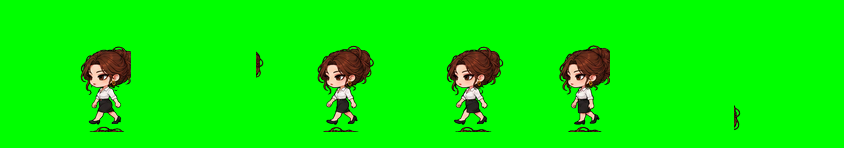
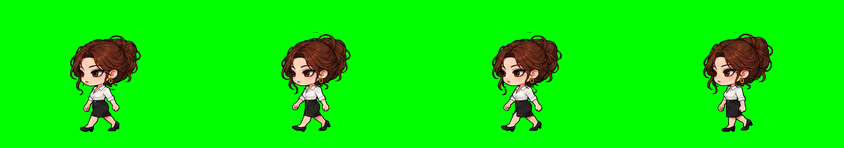
Céleste intake : bandes corrigées (découpage repris)

diff --git a/PROJECT.md b/PROJECT.md
@@ -226,7 +226,7 @@ La zone extérieure vient en dernier et en deux temps (structure, puis contenu) 
 | 17j | implémentée, à relire et à valider sur Android | **Chapitre 5, « Le poids d'une dette »** (`chapitre5.js`, `points.js`, section 35) : l'inventaire du matin (Céleste et la boîte à café, Ishara silencieuse), la douche et le calcul avec Tiamat, **l'écran des six points** (seul le bouton VIT est actif, VIT 5 → 11, les autres lignes sont « fixées »), la ville et la guilde refusée, Izzy (niveau 70, nouvelle apparence avec portraits et marches du pack), le contrat de trois jours (520 retirés au distributeur), le nom donné pour la troisième fois, le 4B (papiers prêts, dette payée, « Bonne journée, monsieur Weiss. »), les trois costumes devant la porte cochère. Le jeu finit maintenant à la fin du chapitre 5. Point de passage « jour 4 ». Quarante-huit scénarios passent. Scripts `?v=77`. |
 | 17k | implémentée, à relire et à valider sur Android | **Contrôle du jeu contre les chapitres 3 à 6 du roman** (fichiers `sang_de_tiamat_chapitreN.md` de Jordan). Corrections : le retrait d'Izzy est de **520 exactement** (le jeu disait 600 puis 80 rendus ; le chapitre 6 en dépend) ; Félix passe au masculin (« vous êtes venu couper une laisse ») et c'est **le 4B**, pas Félix, qui dit « Bonne journée, monsieur Weiss. » ; fin du chapitre 3 réécrite d'après le roman (Ishara a besoin de temps, « Yarden » dit par elle, « C'est toi qui cuisines », « sept pour cent de mana », à la sortie de l'immeuble près du M2) ; scène de Céleste reprenant ses répliques (« Reste derrière moi. Je gère. », « C'est pas suisse. », « Mes draps vont à la machine. ») ; l'araignée au dîner reprend le texte exact. Quarante-huit scénarios passent. |
 | 17l | implémentée, à relire et à valider sur Android | **Chapitre 6, « Ce qu'on écrit à ta place »** (`chapitre6.js`, `render-ch6.js`, section 39) : l'enveloppe du chef en costume (« mademoiselle Weiss »), le préau désaffecté et la déduction du bancomat, la recherche d'Izzy au Flon (trois faux trous à examiner puis l'anneau), le remboursement, Ouchy (hall, ascenseur sans seizième sur le tableau), le seizième étage (baie, deux sorties, chambre de bonne entrouverte), l'invitation et la boîte posée sur la commode. Nouveau : objets à examiner ajoutés par une scène (`extraSpots`), objet « Enveloppe » dans le sac (520 à rendre, jamais dépensés). Le jeu finit maintenant à la fin du chapitre 6. Points de passage « porte cochère » et « seizième étage ». Quarante-huit scénarios passent. Scripts `?v=78`. |
-| 17m | pack reçu, converti, pas encore branché | **Pack images chapitres 7 à 9** (`docs/art/ch7-9/`, converti par `convertir-packs.py` vers `assets/npcs/ch7-9/`, `assets/portraits/`, `assets/objets/`) : Yarden à mains nues, Izzy t-shirt gris, Ishara dague, Céleste (intake, quotidien, manteau), concierge, homme gris, Vasseur, vieille femme, 11 portraits, 11 objets. Défauts à régénérer : `celeste-intake-repos` (cases 1 et 4 quasi vides), `celeste-intake-marche-gauche` (case 4 quasi vide). |
+| 17m | pack reçu, converti, pas encore branché | **Pack images chapitres 7 à 9** (`docs/art/ch7-9/`, converti par `convertir-packs.py` vers `assets/npcs/ch7-9/`, `assets/portraits/`, `assets/objets/`) : Yarden à mains nues, Izzy t-shirt gris, Ishara dague, Céleste (intake, quotidien, manteau), concierge, homme gris, Vasseur, vieille femme, 11 portraits, 11 objets. Les bandes de Céleste intake ont été corrigées (découpage repris), toutes les cases sont pleines. |
 | 17 | à lancer | Bilan de la phase 2 : fluidité mesurée sur téléphone, poids des images, décision sur Godot. Soumis à validation de Jordan. |
 
 ## 10. Suite — antre de l’araignée et réveil dans la ruelle
